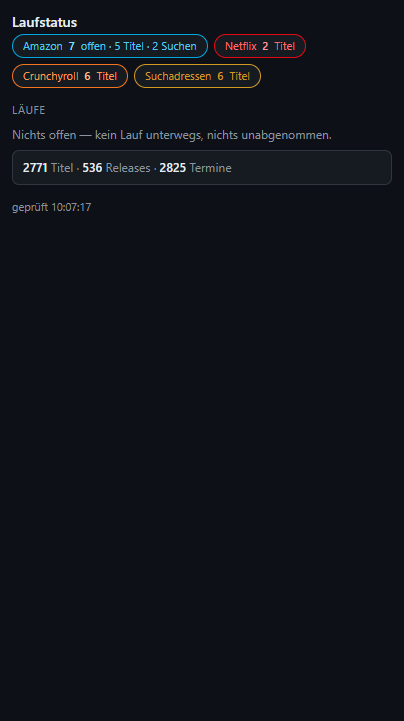
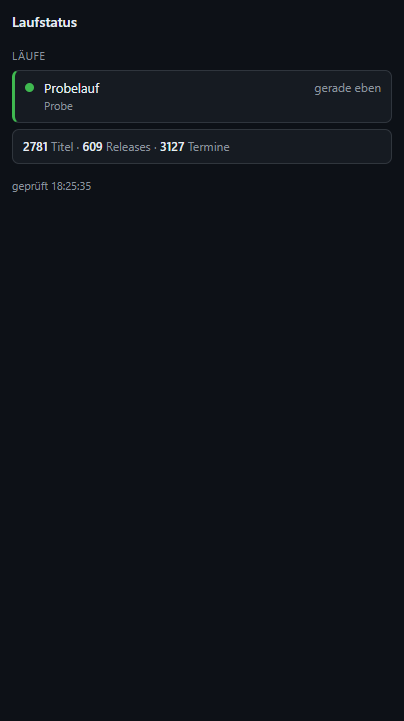
fix(statusanzeige): beim Ausfall den letzten guten Stand zeigen, mit Grund und Uhrzeit
Daniel: 'status app zeigt fehler, warum? fix es'. Ursache per wrangler tail
gemessen: D1-Tageskontingent (Stack berechnePruefstand), kein Fehler der
Anzeige. Sie verwarf aber beim Ausfall alles und beschnitt die Begruendung auf
eine Zeile, obwohl sie den Stand von vor einer Stunde kannte.

Jetzt: letzter guter Abruf in localStorage, beim Ausfall weitergezeigt (Karte
'Stand von HH:MM', Kopfzeile nennt die Uhrzeit, Fusszeile 'der Dienst antwortet
nicht'), Begruendung mehrzeilig.

Zusicherung in tools/lauf-status-app-pruefen.mjs: echter Code gegen erfundene
Antwort (200 mit Probelauf, dann 500), 18 Zusicherungen gruen. Der Prueflauf
bekommt einen eigenen --user-data-dir, sonst startet er bei geoeffneter Anzeige
gar nicht (Electron-Einzelinstanz).

Changed region(s): [[0.0297, 0.0305, 0.8317, 0.3051], [0.7723, 0.0915, 0.8614, 0.1526], [0.8911, 0.0915, 0.9505, 0.1526]]

diff --git a/status.md b/status.md
@@ -19,6 +19,7 @@ verworfene Quelle sonst in drei Monaten ein zweites Mal geprüft wird.
 ### In Arbeit
 
 | Aufgabe | SP | Notiz |
+| **Erledigt am 28.09.2026: Die Statusanzeige bleibt beim Ausfall nützlich** | 3 | Daniel: „status app zeigt fehler, warum? fix es" (18:20). **Ursache gemessen — es war kein Fehler der Anzeige:** `wrangler tail` zeigt auf `/lauf` den Stack `D1_ERROR … free tier daily row read limit` ← `berechnePruefstand` ← `handlePruefung`, also dasselbe Tageskontingent wie in der Zeile darunter; frei ab 02:00. **Was die Anzeige falsch machte:** Sie verwarf beim Ausfall alles und zeigte einen roten Kasten, dessen Begründung auf **eine Zeile** beschnitten war („Meist ist…") — obwohl sie den Stand von vor einer Stunde längst kannte. Jetzt merkt sie den letzten guten Abruf (`localStorage`, damit auch ein Neustart ihn kennt) und zeigt ihn beim Ausfall weiter: gelb umrandet, mit Grund und Uhrzeit, Kopfzeile „Stand von 13:20" statt „8 laufen", Fußzeile „der Dienst antwortet nicht". Ohne gemerkten Stand steht wenigstens der Grund im Klartext (neue Klasse `.unten.lang`, mehrzeilig statt abgeschnitten). **Zusicherung:** `tools/lauf-status-app-pruefen.mjs` fährt den echten Code gegen eine erfundene Antwort (200 mit einem Probelauf, dann 500) und prüft beide Wege — 18 Zusicherungen grün, Bilder in `docs/lauf-status-app.png` und `docs/lauf-status-app-ausfall.png`. **Nebenbei behoben:** Der Prüflauf startete bei geöffneter Anzeige gar nicht (Electron lässt nur eine Instanz zu, Playwright brach mit „Target … has been closed" ab) — er bekommt jetzt einen eigenen `--user-data-dir`. **Für diesen Ausfall bleibt bis 02:00 trotzdem nur der Grund**, weil das offene Fenster den alten Code fährt und noch nichts gemerkt hat; ab dem nächsten Start greift der Rückfall. |
 | **Erledigt am 28.09.2026: Erweiterung 4.24.3 — der Durchgangs-Zustand stand zu weit unten** | 3 | Daniel meldete auf der Prime-Startseite `Uncaught ReferenceError: Cannot access 'primeFrames' before initialization` (`amazon.js:11140`, `primeKoordinieren`) — und dass „▶ alle durchgehen" dort **nichts** tat. Ursache war die Reihenfolge, kein Logikfehler: `PRIME_*`, `IM_FRAME` und `primeFrames` standen als `const` erst kurz vor ihren Funktionen, aber der `message`-Hörer (Zeile 6783) liest `IM_FRAME` und `primeFrames` — trifft eine Frame-Antwort ein, bevor die `const`-Zeile an der Reihe war, liegt der Wert in der „temporal dead zone", der Aufbau bricht ab, der Kasten zeichnet halb. Die Werte stehen jetzt oben bei den übrigen Zustandswerten; `amazon-durchgang.test.cjs` hält die Reihenfolge mit einer Zusicherung fest („der Zustand steht vor dem message-Hörer"), der Sandkasten stellt den Block vorne an. Wissen in docs/wissen/erweiterung.md, 4.24.3 gepusht (`2eb2febe`). **Daniel hat die Erweiterung am 28.09.2026 neu geladen — erledigt.** **Dazu** (nicht in der Erweiterung): Die Statusanzeige zeigte den D1-Fehler als rohes `Unexpected token '<'` — sie prüft die Antwort jetzt und schreibt, dass der Dienst nicht antwortet und das Kontingent ab 02:00 wieder frei ist. |
 | **Queue (28.09.2026, dringend): D1-Tageslimit für Lesezugriffe erschöpft — Worker blockiert bis 02:00** | 5 | Ab etwa 13:30 antwortete der Worker auf `?pruefung`, `?stand=1` und `/lauf` mit **HTTP 500 (Cloudflare 1101)**: `D1_ERROR: Your account has exceeded D1's free tier daily row read limit … wait until tomorrow (midnight UTC)`. Belegt mit `wrangler tail` (Stack: `berechnePruefstand`) und `wrangler d1 execute --remote` (dieselbe Meldung, Code 7500). **Folgen:** Der Briefkasten ist nicht lesbar (Statusanzeige, Erweiterung, Datenläufe), und Daniels manuelle S1-Meldung „The Dangers in My Heart" ließ sich nicht bestätigen. Bis **02:00 Berliner Zeit** arbeitet keine Route, die D1 liest. **Größter Verursacher (im Code gelesen):** `worker/src/pruefung-zaehlen.ts` (`?zaehlen=1`, von der Erweiterung bei **jeder** Seite aufgerufen) fährt **vier `SELECT DISTINCT` über die ganze `pruefung`-Tabelle** (alle je gemeldeten Adressen, Suchadressen, Seiten) — bei ~10⁴ Zeilen sind das je Aufruf ~4·10⁴ gelesene Zeilen, und ein Durchgang über ~150 Seiten vervielfacht das. Dazu `?stand=1` (60-s-Cache, liest alle offenen Meldungen) und die Datenläufe (`?alle=1`, `?rohfolgen=1`). **Plan:** (1) **erledigt:** die drei vollen Scans lesen jetzt mit derselben Zeitgrenze wie die Seiten (nur Meldungen seit `pruefstand.erzeugtAm`, sonst wie bisher über alles) — `worker/src/pruefung-zaehlen.ts`, `check:worker`/`tsc`/`check:vor-commit` grün, **ausgeliefert** (Version `6d87727c`; `/health` antwortete damit 200, die 500er danach sind das Kontingent selbst). (2) `?stand=1`-Takt der Anzeige **geprüft (28.09.2026): kein Handlungsbedarf** — die Schleife fragt bei stehendem Kanal alle **5 Minuten** (60 s nur während eines Laufs), der Worker hält die Antwort 60 s. Das sind ~288 Abrufe/Tag über je ~500 offene Zeilen. (3) erst wenn es dann noch knapp wird, über den bezahlten Plan reden — **Preis in der Doku geprüft am 28.09.2026:** D1 hat keinen eigenen Plan, es hängt am **Workers-Paid-Tarif mit 5 $/Monat Mindestgebühr** (je Konto, samt Workers, Pages Functions, KV, Durable Objects). Darin **25 Mrd. gelesene** und **50 Mio. geschriebene Zeilen pro Monat** sowie **5 GB-Monat**; darüber 0,001 $ je Mio. gelesene, 1,00 $ je Mio. geschriebene, 0,20 $ je GB-Monat. Die freien 5 Mio. Zeilen **pro Tag** sind die Grenze, an der wir gelandet sind — die Monatsmenge des bezahlten Tarifs ist rund das 5.000-fache unseres Verbrauchs, ein Aufschlag ist damit nicht zu erwarten. **Das Kontingent selbst bleibt bis 02:00 erschöpft** — bis dahin liest keine Route. **Nichts verloren:** Meldungen liegen in der Datenbank. |
 | **Erledigt am 28.09.2026: Ein Beleg-Doppel hielt einen ganzen Datenlauf zurück** | 2 | Lauf 36417274445 (11:42) verletzte die Zusicherung „Handbelege: kein Beleg steht zweimal in der Datei" und ließ deshalb alles liegen („Erzeugnisse und neue Meldungen werden nicht übernommen"): `data/dub-confirmed.yaml` wurde **nicht** committet, und die Belegdatei bekam die rund 240 Prime-Meldungen des Durchgangs nicht. Ursache: `neueBelegBloecke()` vergleicht die gelesenen Objekte **beim Anhängen**, übersieht aber eine Dopplung, wenn sich ein Block **allein** nicht lesen lässt — in der fertigen Datei steht er dann als eigener Eintrag, und `check:logic` vergleicht dort. Neu: `entdoppleBelege()` in `pipeline/lib/dub-confirmed.ts` ist der letzte Riegel **vor dem Schreiben** — dieselbe Frage wie die Zusicherung, vier Zusicherungen in `check:logic`. Nicht betroffen: `data/urteile.json` (+9.166 Zeilen) und `data/folgen-zuordnung.json` (+12.679) — die **Folgenurteile** des Durchgangs sind in diesem Lauf angekommen. Der fehlende Belegteil wurde lokal nachgeholt und mitcommittet. |
